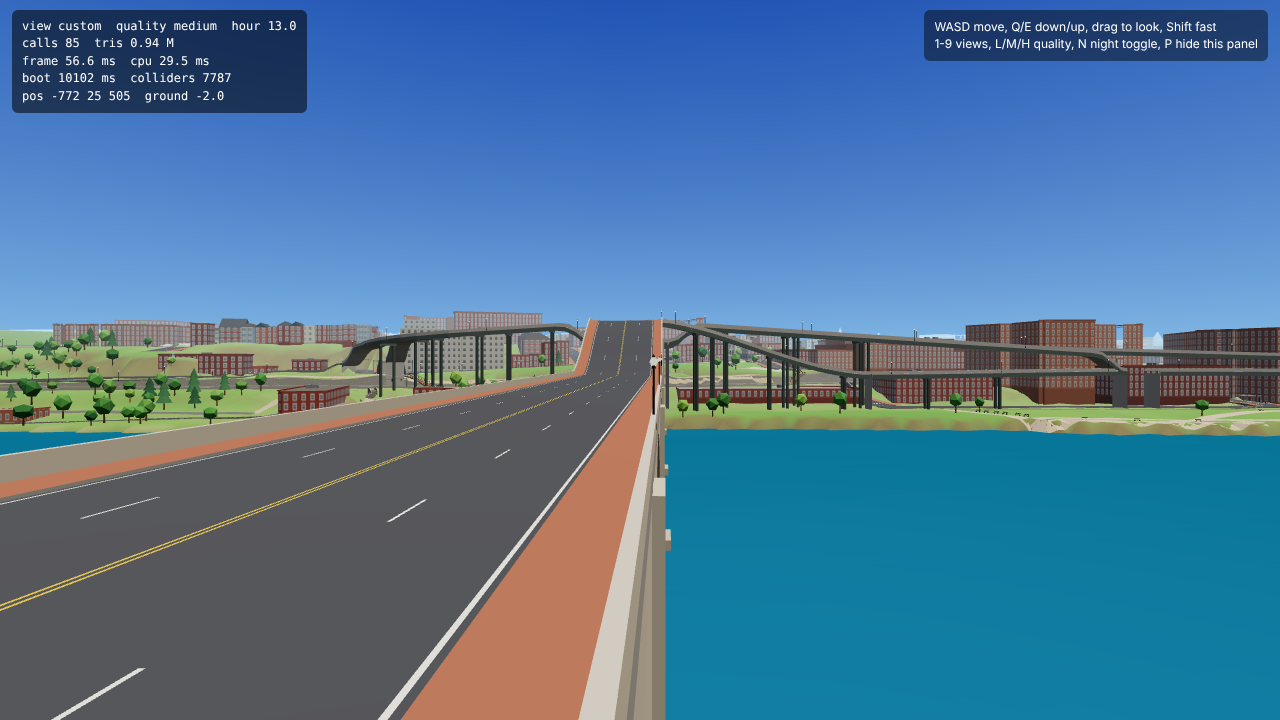
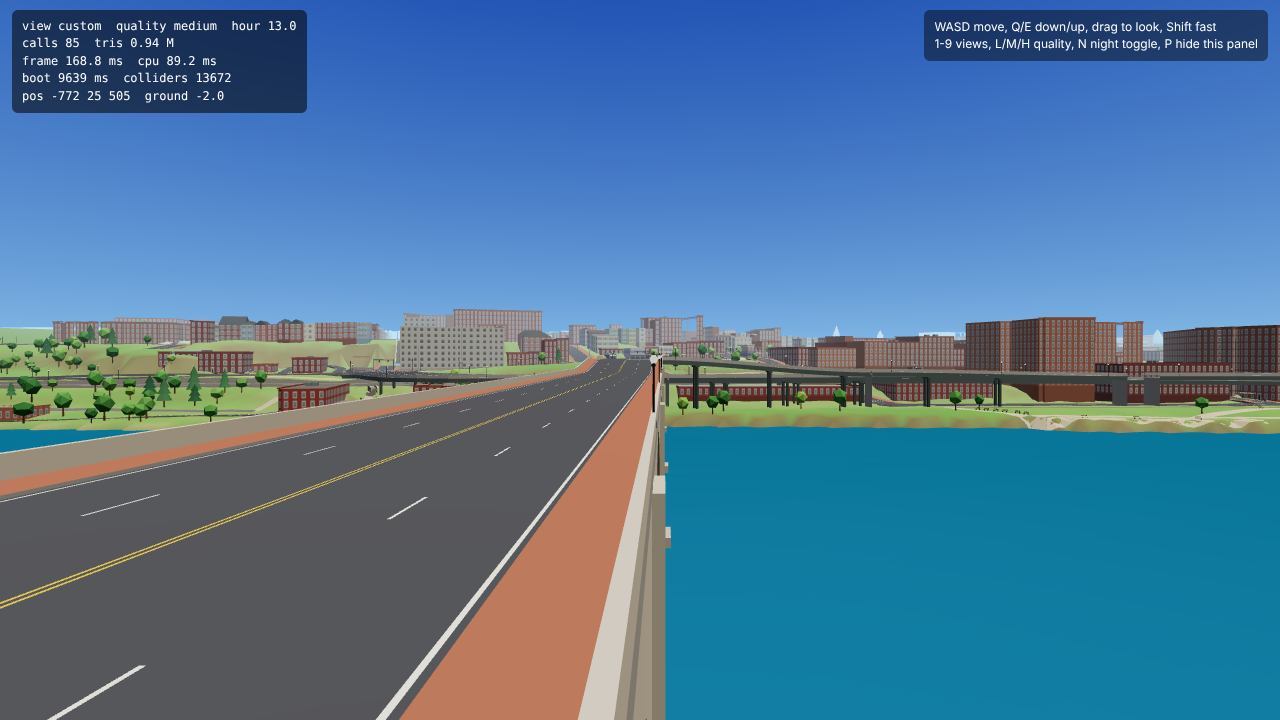
Review of the real map: DEVLOG entry (checks, fixes, before/after audit and drive numbers, perf, known issues), ROADMAP status for items 2 and 3, suspicious-areas rows for the Key Bridge fix, 32-real-keybridge retaken
Claude-Session: https://claude.ai/code/session_012Y9CQc2geJ2jhDimLjKczQ

diff --git a/DEVLOG.md b/DEVLOG.md
@@ -777,7 +777,7 @@ Format: date · what changed · what to test · known issues.
     - The real map costs about 5-7 s more to build at load (roads, raster and buildings: 4,713 real footprints instead of 3,986 boxes), a third more triangles drawn at Medium, and 50-90 MB more memory; it has fewer colliders. Garbage per frame read 0 or about 80 KB depending on when the collector ran, in both builds (not comparable).
 - **Screenshots:** `32-real-aerial`, `32-real-mst`, `32-real-keybridge`, `32-real-circle`, `32-real-canal`, `32-real-hills` (preview page, Medium, 13:00). The `28-traffic-*` and `29-life-*` screenshots still show the knowledge-based map (test runs on the real map were not kept).
 - **Known issues:**
-  - **Key Bridge north end and the Whitehurst Freeway west end:** the data's layers put the freeway ramps (layer 2) over the bridge (layer 1) beside an at-grade piece at 22 m, so the bridge end is at 38 m (the real deck meets M St at about 21 m) with a visible 15 % ramp down to M St, and the freeway's west ramps fall 7 m in 8 m to M St and Canal Rd (AI cars bump into each other there). The road audit lists them first.
+  - **Key Bridge north end and the Whitehurst Freeway west end:** the bridge end stood at 38 m (the real deck meets M St at about 21 m) with a 15 % ramp down to M St, and the freeway's west ramps fell 7 m in 8 m to M St and Canal Rd. *Fixed in the review below (a clearance ratchet between the freeway's own carriageways, not the data's layers).*
   - **Road smoothness** is still over the limits in places (numbers above): service-road mouths, steep street pieces between flat plateaus, the Rock Creek / K St / Whitehurst / Potomac Freeway interchanges.
   - **Tunnels:** the K St underpass and the Potomac Freeway portal are in the data but not rendered; the pruned approaches leave a sunken grass strip between the K St service lanes east of 24th St.
   - **Edges:** the west, north-west, east and south-east crop edges cut the street grid.
@@ -789,3 +789,32 @@ Format: date · what changed · what to test · known issues.
   - **Buildings:** facades are drawn as `levels` x 3.2 m plus the ground floor, not at the data's lidar height; 2,172 heights are class defaults; thin real footprints show as tall narrow walls.
   - **Stairs:** the 120 real steps go through the existing stair builder; they were not audited here (the physics branch owns stairs).
   - **drive** on Georgetown: the parked car it takes drives straight for 3 s into the dead end of 34th St south of M St and loses most of its health (the scenario does not check that).
+- **Review of the real map (verify-realdata, on `s1-realdata`):** every claim above re-run on the builder's head (1e89980) and after the fixes below, plus new probes (one-ways against the raw Overture records, seed invariance, roadway obstacles, keyboard drives of every major street, traffic watches).
+  - **Checked and fine:** one-way directions match Overture's access restrictions on 1,054 of 1,064 pieces; the other 10 are the Rock Creek Parkway's rush-hour one-ways (`during` Mo-Fr 15:45-18:30), correctly two-way the rest of the day. Washington Circle is one closed ring driven counter-clockwise (signed area positive on a north-up map), centre 38.90255, -77.05008 (the real circle's centre), radius 59 m, 8 spokes (23rd St N and S, Pennsylvania Ave W and E, K St W and E, New Hampshire Ave NE and SW). Landmarks sit where they are in Georgetown: M St at Wisconsin Ave (-147, 155, 21 m), the canal between M St (z 134-170) and K St (z 430-445), the Whitehurst Freeway above K St, Rock Creek and its parkway at x 330-390, the waterfront park, the hill rising north (P St 32 m, R St 57 m, Book Hill 59 m). Seeds 1, 123 and 456 give identical colliders and road, walk and building graphs; only the shop-sign boards and awnings differ (their width follows the invented name). Licence split and credit lines (pause menu, README, `georgetown.LICENSE.md`) match the research findings. 36 data buildings that reach into a carriageway are clipped by the world builder as designed.
+  - **Fixed:**
+    - **Key Bridge north end at 38 m:** not the data's layers but a clearance ratchet: the Whitehurst Freeway's two carriageways drop to layer 1 for 28 m under the bridge, 8 m apart, and each half's layer-2 deck cleared the other half's layer-1 piece, so both climbed to 37 m and the bridge, clearing them, to 38 m (35 % ramps). A deck no longer clears its own street's other carriageway (no named road crosses itself on another layer in the data). Key Bridge now 20 m over the river, 23.7 m at its north end, 21.5 m at M St; the freeway 16-17 m at its west end, 9.9 m at its east end (`georgetownWorld.ts` makeProbe).
+    - **Ridge across L St and Pennsylvania Ave** (622, 300): at a sharp merge the junction plateau's outline curved out 20 m beyond the arms' trims while the arms still climbed to it, a 0.39 m step across both roads (geodrive's car took 16 hp there, the keyboard drive crashed at 54 km/h). At sharp merges (under 35 degrees) the outline now stops at the trims (`roadNet.ts`).
+    - **K St sagging onto its bridge over the Rock Creek parkway** (466, 431): the abutment node sat at 10.5 m between 12.4 and 12.0 m, a V that launched cars at 60 km/h. An abutment lower than both the street's next junction and the deck's far end (within `TUNING.geo.sagFillSpan`) rises to the line between them, bounded by `approachMaxLift` (`roadNet.ts`).
+    - **Invisible walls of concave buildings:** a building collider that is not a box was the convex hull of its footprint, so 1,674 L- and U-shaped real footprints filled their notches (134,000 m2 of invisible wall over courtyards, driveways, alleys and pavements; one hull added 960 m2). Concave footprints are cut into convex pieces (triangulated, merged while convex, notches under `TUNING.geo.footprintNotchTol` = 0.3 m filled). Static colliders 7,787 -> 13,670.
+    - **Things standing in the road:** a church tower stood in Q St (the end of an irregular footprint's long axis lay outside it): towers now stay on the footprint and off the road; a bus shelter's end stood 2 m into Wisconsin Ave beside a driveway mouth: shelters are placed only where all four corners are off roads and buildings (`facades.ts`, `props.ts`).
+    - **Cars circling at the map edge:** a car on a one-way road leaving the map reached the end at turn speed with no next lane and drove round in circles on the spot for as long as the player watched (and mapcheck's followed car did so for the rest of its run: the builder's "mapcheck passes" was 1 of 3 runs). It now pulls up at the end (`traffic.ts`).
+    - **A real business name as a place:** park places included "Thompson's Boat Center" (a boathouse business) and a university's initials ("GW GroW Garden"), which the taxi and NPC chat use. Only public open-space names are used now (14 of 17).
+  - **Test** (`npm run build`, then `MAP=georgetown node scripts/shot.mjs x <scenario>`; numbers are the builder's head 1e89980 -> the reviewed head; the machine ran other agents' builds at load 12-15 on 4 cores, so CPU timings are noise):
+    - **roadaudit:** grade samples over the limit 5,285 -> 2,994 (worst 144 % -> 64 %, now the Q St bridge's east end at 803, -461), grade change 2,437 -> 1,080, kinks 2,662 -> 2,298, cross-slope 2,168 -> 1,993, lane-to-surface gaps 3,947 -> 1,875, junction kinks 248 -> 235 (worst 3.1 m, the bus shelter, -> 1.6 m on a service road), walk steps over 0.3 m 1,558 -> 1,525 (over 0.45 m 623 -> 589), holes 3 -> 3 (the Key Bridge's south end at the map edge and a pinhole on Pennsylvania Ave at 309, 160, both already there).
+    - **roaddrive:** 48 chains, 24.9 km: worst cabin acceleration 32.4 -> 21.0 m/s2 (K St at 242, 444 by the Whitehurst Freeway's east end), samples over 4.5 m/s2 1,784 -> 1,379, runs inside both limits 9 -> 11, runs ending in a collision 10 -> 8. The Key Bridge (19.2), Canal Rd (32.4) and Whitehurst west end spikes are gone.
+    - **Keyboard drive** (new probe: every major-street chain driven with W/A/S/D only at 55 km/h, 70 on parkways, slower in curves, traffic removed; 50 chains, 24 km): runs ending in a crash 17 -> 13, airtime events over 0.08 s 4 -> 1, worst cabin acceleration 33.3 -> 14.1 m/s2 (leaving out the start beyond the north map edge, where the car falls), runs over 10 m/s2 15 -> 12.
+    - **geodrive:** builder's head: completed, 16 hp lost on the L St ridge, 5 AI wrong-way moves, 0 red runs. Reviewed head, two runs: completed with no damage, no red light by the test car, AI 0 illegal moves of 1,324, 1 red run of 316 (a car committed on amber at the Key Bridge / M St signal), 0 failed yields in 15 ring entries, 4 wrong-way moves; the second run got stuck on K St at 411, 438 (see known issues).
+    - **mapcheck:** 0 errors, 0 height mismatches, 93.5 % of lanes one-way-connected, 100 % walk connectivity, 20 of 20 walks, every place with a kerb point, in every run. Its drive part is flaky: builder's head failed (the car circling at the Canal Rd exit), the reviewed head passed once and failed twice (3.0 m and 7.7 m off lane after AI contacts and on the short lanes at the Key Bridge / M St junction; 30 choices reached in two of the three).
+    - **taxi** 3 of 3 fares; **walk**, **world**, **drive** exit 0. The builder's head also ran roadaudit, roaddrive, world, walk, drive, handling, crashspikes, gate2, witness, police, theft, dealership, geolife, parkcheck, life and crowd on Georgetown: all exit 0 with a clean console.
+    - **Grid**, reviewed code: world, walk, drive, handling, crashspikes, gate2, mapcheck (pass, 30 choices, 0.3 m), theft, taxi (3 of 3), dealership, life, crowd, witness, police (3 stars, chase): all exit 0 with a clean console.
+    - **Traffic watches** (new probe: you stand still, 5 game minutes at the preset's density): Washington Circle 55 ring entries, 0 failed yields, 0 red runs in 344 signal crossings, no contact on the ring (14 elsewhere, mostly where K St meets 27th St at 675, 430); M St at Wisconsin Ave (an intermediate build of this review, same traffic code) 149 signal crossings, 0 red runs, 5 contacts (two opposing left turns on Wisconsin Ave), one car stood 88 s at the junction's two nodes while its exit was blocked. On the builder's head the circle gave 45 entries, 0 failed yields, 0 red runs.
+    - **Seed invariance:** collider, road-graph, walk-graph and building hashes identical for seeds 1, 123 and 456.
+    - **Performance** against the builder's head (3 interleaved rounds per preset, `?map=georgetown`): draw calls Low 112-114 -> 110-116, Medium 142-148 -> 140-145; triangles drawn 656k -> 655k (Low), 1.010M -> 1.009M (Medium); geometry 121.2 -> 121.3 MB; colliders 8,350 -> 14,233 (static 7,787 -> 13,670); map build at load 5.4-9.4 s -> 6.2-7.4 s (Low) and 6.0-9.8 s -> 7.0-7.6 s (Medium); page to first frame 13.8-24.1 s -> 18.7-19.1 s (Low); JS heap 238-241 -> 242-248 MB (Low). Frame CPU at 4x throttle on foot, median per run: Low 6.3-8.1 -> 9.3-11.4 ms, Medium 5.3-11.6 -> 8.7-9.6 ms; driving Low 4.3-5.6 -> 5.9-8.2 ms. A section breakdown on foot (2 alternating rounds, 4x): physics 5.4 / 5.9 ms on the builder's head, 9.9 / 5.8 ms reviewed (the 9.9 ms round was slow in every section, player and camera too); the extra colliders may cost a little physics time, but on this loaded machine it is not separable from noise. The pause menu shows the full credit line (screenshot checked).
+  - **Known issues after the review:**
+    - **K St westbound at 396-415, 437:** the Whitehurst Freeway's slip road onto K St (a primary_link) overlaps the inner lane and its surface stands 0.32 m above the lane where they part (0.2 m before this review); geodrive's car drove into it at 39 km/h and stuck there in one of two runs.
+    - **Whitehurst Freeway east end** (371-409, 425): it still climbs from 12.4 to 19.4 m in 38 m because it clears K St running alongside it (8 m apart) as if K St were beneath it; roaddrive's second-worst spike (17.7 m/s2).
+    - **mapcheck's drive** passes about one run in three on the real map (above); the graph, walk, height and place checks pass every time.
+    - **Map edges:** lanes run on past the invisible boundary walls; the Rock Creek Parkway chain that starts beyond the north wall (243, -1027) falls off the terrain, and a car driving out on Wisconsin Ave meets the wall in mid-street.
+    - **Colliders:** the convex pieces add 5,883 static colliders (13,670 in all); service roads mapped within a metre of a wall still graze it (about 30 short stretches, AI cars only).
+    - **The seed varies shop-sign widths and awning colours** (render only: no collider, graph or walk change).
+    - **Fallback map** (`georgetownFromSpec.mjs`) not re-run in this review; the collider, tower, shelter and map-exit changes apply to it too.

diff --git a/docs/ROADMAP.md b/docs/ROADMAP.md
@@ -24,8 +24,8 @@ Stages follow the owner's implementation order. Each stage ends with build, Play
 
 ### Stage 1: fix the foundation
 1. **Stairs and collisions** (priority). Audit every solid thing in the world against its collider: stairs of every kind, stoops and entrance steps, landings, railings, parapets, walls, benches, bins, lamps, signal poles, trees, monuments, piers, fences. Fix the character controller (grounding, step climbing, slopes, jumping, never falling through). F4 physics debug view. Automated stair tests. *Status: in progress.*
-2. **Real 1:1 map data.** Replace the knowledge-based Georgetown with real data: Overture Maps (roads with names, classes, one-ways, bridges and levels; sidewalks, crossings, steps and paths; building footprints and heights; places by category; water and land use) and real terrain from public elevation tiles. About 2 x 2 km with a clean edge. Real street names, invented shop names. Attribution in the pause menu and README. *Status: done for the data (`npm run import-overture`, branch s1-realdata: real roads, paths, buildings, places by category, water, parks, signals and stop signs, terrain; licences split into three files; attribution in the pause menu, README and `src/data/georgetown.LICENSE.md`). Partial for the world: the tunnels (K St underpass, Potomac Freeway portal) are not rendered, the west, north-west, east and south-east crop edges still cut the street grid, lane counts are estimates (Overture has none), the Key Bridge north end and the Whitehurst Freeway west end stand at inferred levels (38 m instead of about 21 m). Traffic, police, crowds, parked cars, taxi, theft and dealerships run on it (geodrive completes Key Bridge to the waterfront with 0 failed yields and 0 AI red-light runs; a few AI wrong-way moves remain, see DEVLOG).*
-3. **Roads and terrain.** Correct widths and lane counts, logical connections, crossings, signals, parking, alleys; smooth drivable road surfaces with no artificial bumps or broken seams; keep natural hills off the road. *Status: partial (branch s1-realdata): widths measured from the mapped sidewalks, junction heights relaxed to grade limits, plateaus eased, overlapping carriageways and roads crossing other junctions' plateaus conform, deck ends meet their streets (bounded lift), lanes lie on the collider surface; road audit (`roadaudit`) and drive test (`roaddrive`) with limits in `TUNING.geo.roadLimits`. The median road is smooth and the K St / Washington Circle walls the gate drive hit are gone, but the audit and the drive test still exceed the limits in places: service-road mouths, steep pieces between flat plateaus, the Key Bridge north end / Whitehurst west end and the Rock Creek / K St / Potomac Freeway interchanges (numbers in DEVLOG). mapcheck passes on the real map (0 errors, 0 height mismatches, 93.5 % one-way-connected lanes, 100 % walk connectivity).*
+2. **Real 1:1 map data.** Replace the knowledge-based Georgetown with real data: Overture Maps (roads with names, classes, one-ways, bridges and levels; sidewalks, crossings, steps and paths; building footprints and heights; places by category; water and land use) and real terrain from public elevation tiles. About 2 x 2 km with a clean edge. Real street names, invented shop names. Attribution in the pause menu and README. *Status: done for the data (`npm run import-overture`, branch s1-realdata: real roads, paths, buildings, places by category, water, parks, signals and stop signs, terrain; licences split into three files; attribution in the pause menu, README and `src/data/georgetown.LICENSE.md`). Partial for the world: the tunnels (K St underpass, Potomac Freeway portal) are not rendered, the west, north-west, east and south-east crop edges still cut the street grid, lane counts are estimates (Overture has none). Traffic, police, crowds, parked cars, taxi, theft and dealerships run on it. Independent review (verify-realdata): one-ways match Overture, Washington Circle is a closed counter-clockwise ring at its real centre, landmarks and heights where they belong, map geometry identical across seeds; fixed the Key Bridge north end (38 m -> 23.7 m, a clearance ratchet), invisible walls over concave buildings, a church tower in Q St, cars circling at one-way map exits, and a real business name among the park places. geodrive completed with no damage in 1 of 2 runs on the reviewed head (the other stuck at a 0.32 m step on K St); 0 failed yields, 1 AI red run in 316 crossings.*
+3. **Roads and terrain.** Correct widths and lane counts, logical connections, crossings, signals, parking, alleys; smooth drivable road surfaces with no artificial bumps or broken seams; keep natural hills off the road. *Status: partial (branch s1-realdata): widths measured from the mapped sidewalks, junction heights relaxed to grade limits, plateaus eased, overlapping carriageways and roads crossing other junctions' plateaus conform, deck ends meet their streets (bounded lift), lanes lie on the collider surface; road audit (`roadaudit`) and drive test (`roaddrive`) with limits in `TUNING.geo.roadLimits`. The median road is smooth and the K St / Washington Circle walls the gate drive hit are gone; the review fixed the Key Bridge / Whitehurst west end ramps, a ridge across L St and Pennsylvania Ave at a sharp merge and K St's sag onto its Rock Creek bridge (road audit grade samples over the limit 5,285 -> 2,994, lane-to-surface gaps 3,947 -> 1,875; drive test worst 32.4 -> 21.0 m/s2, 11 of 48 runs inside the limits). Still over the limits in places: service-road mouths, steep pieces between flat plateaus, the Whitehurst east end over K St, a 0.32 m step on K St westbound at 396-415 (numbers in DEVLOG). mapcheck: 0 errors, 0 height mismatches, 93.5 % one-way-connected lanes, 100 % walk connectivity every run, but its drive part (a followed AI car within 3 m of its lane for 30 choices) passes only about one run in three.*
 4. **PBR look.** A material system with procedural PBR textures (asphalt, worn markings, concrete, Georgetown brick sidewalks, granite kerbs, brick in several bonds and colours, painted brick, stone, stucco, clapboard, slate and metal roofs, glass with reflections, window frames, metal, wood, grass, bark, cobbles and old tram tracks), image-based lighting from the sky, filmic tone mapping, soft shadows that cover the city, fog and haze, night lighting, Low/Medium/High presets, no repetition across buildings. *Status: in progress.*
 5. **Research.** Google Photorealistic 3D Tiles (licence, attribution, billing, technical fit), OpenStreetMap vs Overture, texture sources. Written to docs/research/. *Status: in progress.*
 

diff --git a/docs/m3-suspicious-areas.md b/docs/m3-suspicious-areas.md
@@ -84,7 +84,7 @@ Median and largest distance from the old line's vertices to the real street:
 | Washington Circle ring pieces mostly lack a one-way restriction | 946, 439 / 38.90255, -77.05009 | Ring found as a loop of same-name pieces, made one closed one-way counter-clockwise road |
 | K St underpass under Washington Circle and the Potomac Freeway tunnel under Virginia Ave | 1015, 459 / 38.90237, -77.0493; 605, 794 / 38.89935, -77.05403 | Tunnels (layer < 0) are in the data with their levels but not rendered; their approach ramps are pruned back to the street they leave (36 pieces) |
 | Bare-earth terrain keeps parts of bridges near their abutments | Key Bridge north end -707, 288 / 38.90391, -77.06915 | Junctions inside a bridge take heights interpolated along the bridge; ground under every deck is cut below the deck |
-| Key Bridge north end height is inferred | -707, 288 | The deck must clear the Whitehurst Freeway ramps below; the generator puts it at 38 m and the approach to M St (21.6 m) runs at about 15 % |
+| Key Bridge north end height is inferred | -707, 288 | The deck must clear the Whitehurst Freeway below. Fixed in review: the freeway's two carriageways (each at layer 1 for 28 m under the bridge, 8 m apart) took each other as a road beneath and ratcheted to 37 m, the bridge to 38 m. A deck no longer clears its own street's other carriageway; the bridge now peaks at 23.7 m (7 % up from the river span's 20 m, down to M St's 21.5 m) with the freeway at 16 m beneath it |
 | 22nd St NW lay exactly on the first crop edge | 1058, 300 / 38.9038, -77.0488 | Crop widened to -77.0483 so the street and its sidewalks are inside |
 | Kalorama (beyond Rock Creek) and the Virginia shore were cut mid-block by the rectangle | north-east of 960, -540 / 38.91136, -77.04993; south of the Potomac centre line | Masked: dropped and turned into woodland (natural edges: the Rock Creek valley, the river) |
 | Juarez Circle pieces do not close into a loop inside the crop | 660, 800 / 38.89929, -77.05339 | Left as plain roads |
@@ -99,7 +99,7 @@ Median and largest distance from the old line's vertices to the real street:
 | One-way pieces that lead nowhere once the tunnels are pruned | Potomac Freeway portal approach 593, 768 / 38.89958, -77.05416, and a few service pieces | No lanes in those directions (traffic drove in and circled at the end); the surface stays drivable. Traffic lanes with no legal move out fell from 48 to 39; the rest are two-way dead ends (cars turn round) and roads leaving the map |
 | A bridge deck ending a few metres before its street's next junction | K St over Rock Creek, 367, 439 / 38.90255, -77.05677 | The deck had to clear its own at-grade continuation (8 m away) and stood 6 m above it: a wall. Roads one short piece from a deck end no longer count as passing under it, and the junction beside a raised deck end rises up to 3 m to meet it |
 | Washington Circle's arc runs over the Pennsylvania Ave / K St junction west of the ring | 878, 420 / 38.90272, -77.05088 | The arc kept its own terrain profile there and stood 0.36 m above the junction's flat plateau (a step across the carriageway); a road crossing another junction's plateau now takes its height |
-| Key Bridge north end and the Whitehurst Freeway west end levels | -792, 197 / 38.90473, -77.07013 | Still open: the data's layers put the freeway ramps (layer 2) over the bridge (layer 1) beside an at-grade piece at 22 m, so the bridge end is at 38 m (real deck about 21 m) and the freeway's west ramps fall 7 m in 8 m to M St; the gate drive avoids them, the road audit lists them first |
+| Key Bridge north end and the Whitehurst Freeway west end levels | -792, 197 / 38.90473, -77.07013 | Fixed in review (see the row above): the freeway's west end runs at 16-17 m into M St / Canal Rd (16.8 m) with no drop; it is no longer among the worst grade samples (144 % before; the map's worst is now 64 %, at the Q St bridge's east end, 803, -461). Parapets stand in the gore where the freeway splits from its ramp to Canal Rd (-793, 186) |
 | The Rock Creek / K St / Whitehurst Freeway / Potomac Freeway interchanges | 330-620, 320-800 / 38.8988-38.9036, -77.0572 to -77.0539 | Many ramps at different levels with few bridge flags; the worst road-smoothness numbers are here (see DEVLOG) |
 
 ### Scale check (1:1)
